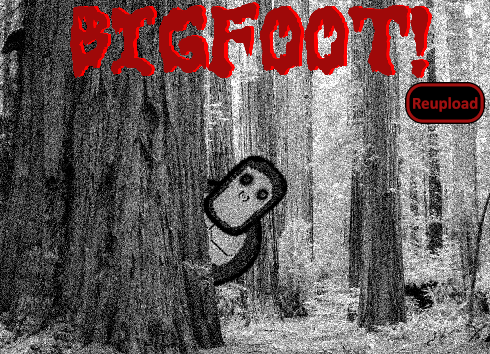
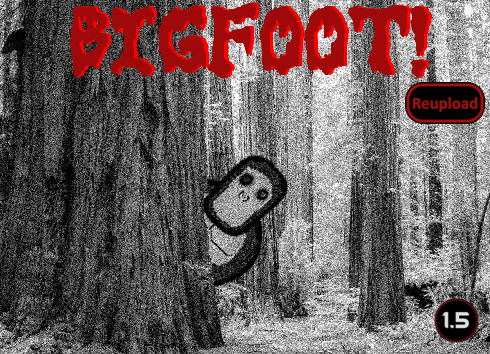
Mod updated for 1.5 and passed autotests

Changed region(s): [[0.8878, 0.839, 0.9796, 0.9944]]

diff --git a/README.md b/README.md
@@ -34,11 +34,13 @@ Update 2: Gave Bigfoot a damage increase.
 
 -  See if the the error persists if you just have this mod and its requirements active.
 -  If not, try adding your other mods until it happens again.
--  Post your error-log using https://steamcommunity.com/workshop/filedetails/?id=818773962]HugsLib and command Ctrl+F12
+-  Post your error-log using https://steamcommunity.com/workshop/filedetails/?id=818773962]HugsLib or the standalone https://steamcommunity.com/sharedfiles/filedetails/?id=2873415404]Uploader and command Ctrl+F12
 -  For best support, please use the Discord-channel for error-reporting.
 -  Do not report errors by making a discussion-thread, I get no notification of that.
 -  If you have the solution for a problem, please post it to the GitHub repository.
+-  Use https://github.com/RimSort/RimSort/releases/latest]RimSort to sort your mods
 
 
 
+https://steamcommunity.com/sharedfiles/filedetails/changelog/2210174296]![Image](https://img.shields.io/github/v/release/emipa606/Bigfoot?label=latest%20version&style=plastic&color=9f1111&labelColor=black)
 
